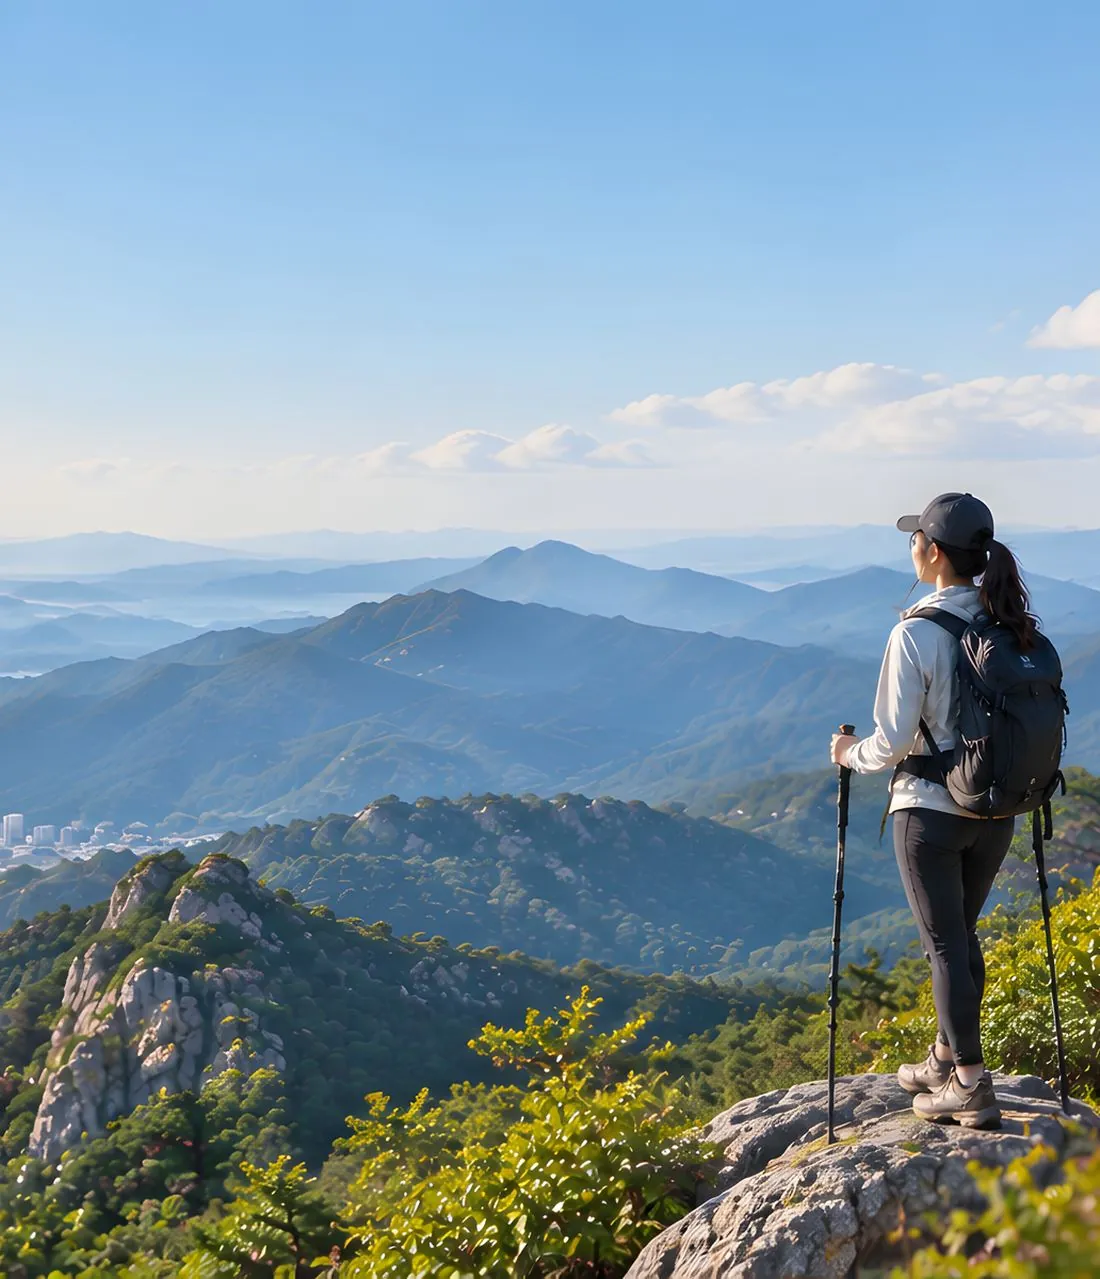
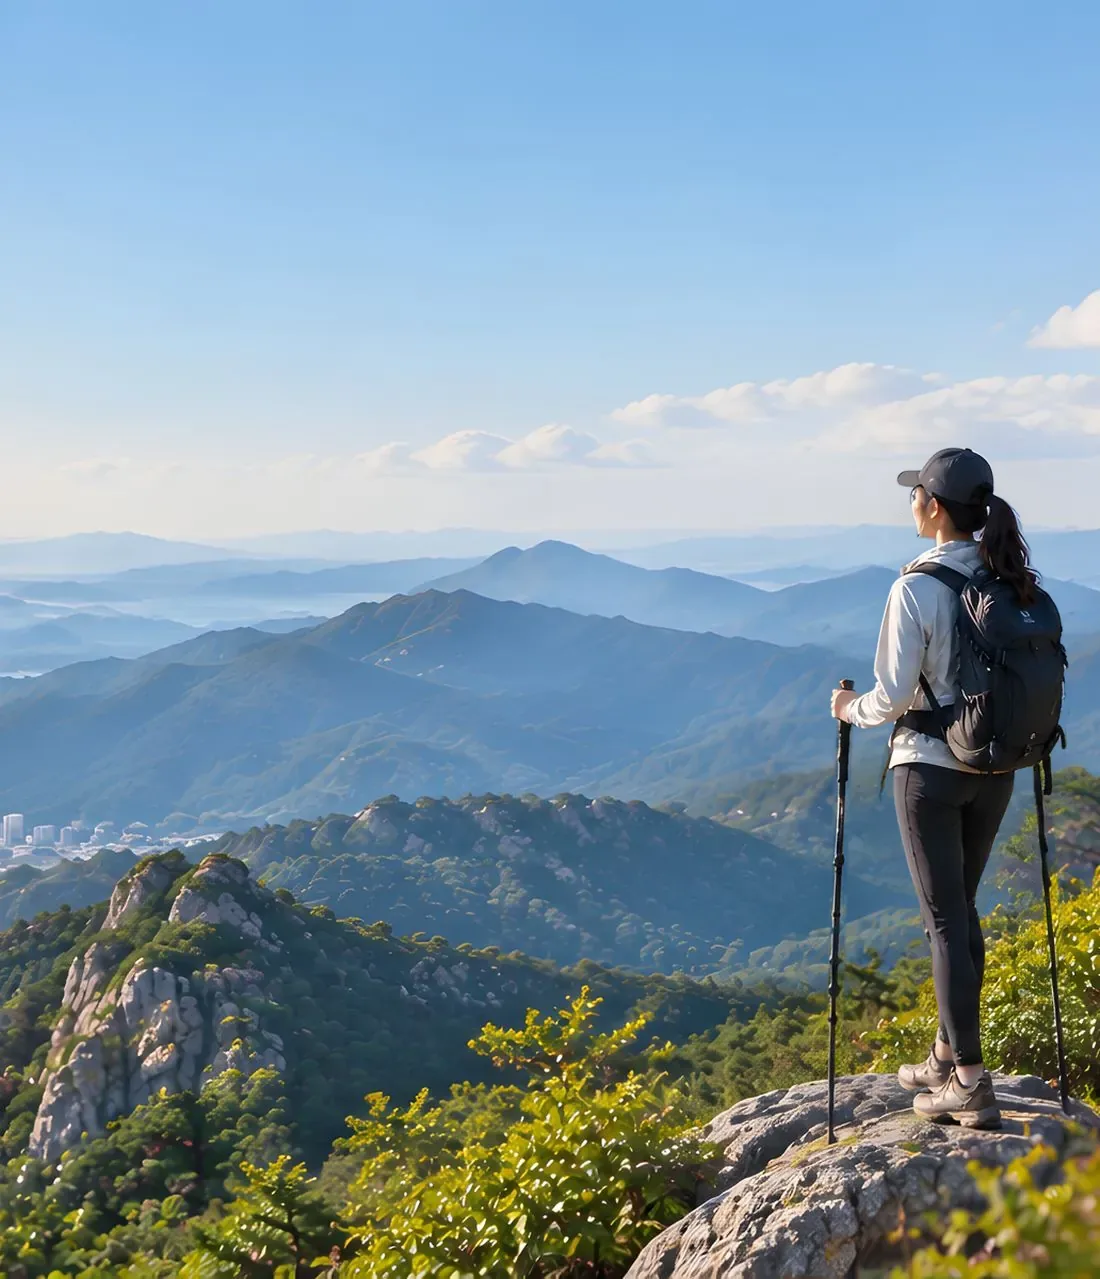
히어로 원본 인물 다리 비율 보정 및 PC 맨 위로 버튼 추가
- 원본 사진 내에서 허벅지~정강이 구간만 세로 확장(발 접점 고정, 스틱·허리끈 포함), 빈 배경은 LaMa로 복원
- PC(721px 이상)에서 스크롤 시 우하단 맨 위로 버튼 표시

Claude-Session: https://claude.ai/code/session_01TTPn3ts8fEyWREDupZmwxM

Changed region(s): [[0.7418, 0.3354, 0.9891, 0.9148], [0.9582, 0.8538, 0.9891, 0.8843]]

diff --git a/_src.html b/_src.html
@@ -292,6 +292,16 @@ footer{background:var(--dark);color:rgba(255,255,255,.5);border-top:1px solid rg
   .end .in{padding-block:clamp(72px,16vw,112px);}
   .end p{margin-top:18px;}
 }
+/* ── 맨 위로 버튼 (PC 전용) ── */
+.totop{display:none;}
+@media (min-width:721px){
+  .totop{position:fixed;right:28px;bottom:28px;z-index:60;display:flex;align-items:center;justify-content:center;
+    width:48px;height:48px;border-radius:50%;background:rgba(255,255,255,.94);color:var(--green-deep);
+    border:1px solid var(--line2);box-shadow:0 6px 20px rgba(20,24,27,.12);
+    opacity:0;visibility:hidden;transform:translateY(8px);transition:opacity .25s ease,transform .25s ease,visibility .25s,background .2s,color .2s;}
+  .totop.show{opacity:1;visibility:visible;transform:none;}
+  .totop:hover{background:var(--green);color:#fff;border-color:var(--green);}
+}
 @media (prefers-reduced-motion:reduce){
   *,*::before,*::after{animation:none !important;transition:none !important;}
   .hero h1 span > i,.hero .sub,.hero .status,.reveal.pre{transform:none;opacity:1;}
@@ -517,15 +527,18 @@ s.srcset="/img/hero/"+k+"-m.webp";i.src="/img/hero/"+k+".webp";})();</script>
     <span class="cp">© 2026 혼산노트</span>
   </div>
 </footer>
+<a class="totop" id="totop" href="#top" aria-label="맨 위로 이동"><svg viewBox="0 0 24 24" width="20" height="20" aria-hidden="true"><path d="M12 19V5M5 12l7-7 7 7" fill="none" stroke="currentColor" stroke-width="2.2" stroke-linecap="round" stroke-linejoin="round"/></svg></a>
 
 <script>
 (function(){
   "use strict";
   var reduce = window.matchMedia && window.matchMedia('(prefers-reduced-motion: reduce)').matches;
   var nav=document.getElementById('nav'), hbg=document.getElementById('bgwrap'), ticking=false;
+  var totop=document.getElementById('totop');
   function frame(){
     ticking=false; var y=window.scrollY||0;
     if(nav) nav.classList.toggle('solid', y>40);
+    if(totop) totop.classList.toggle('show', y>window.innerHeight*0.8);
     if(hbg && !reduce) hbg.style.transform=window.innerWidth>640?'translate3d(0,'+Math.min(y*0.16,90)+'px,0)':'';
   }
   function onScroll(){ if(!ticking){ ticking=true; requestAnimationFrame(frame); } }

diff --git a/index.html b/index.html
@@ -292,6 +292,16 @@ footer{background:var(--dark);color:rgba(255,255,255,.5);border-top:1px solid rg
   .end .in{padding-block:clamp(72px,16vw,112px);}
   .end p{margin-top:18px;}
 }
+/* ── 맨 위로 버튼 (PC 전용) ── */
+.totop{display:none;}
+@media (min-width:721px){
+  .totop{position:fixed;right:28px;bottom:28px;z-index:60;display:flex;align-items:center;justify-content:center;
+    width:48px;height:48px;border-radius:50%;background:rgba(255,255,255,.94);color:var(--green-deep);
+    border:1px solid var(--line2);box-shadow:0 6px 20px rgba(20,24,27,.12);
+    opacity:0;visibility:hidden;transform:translateY(8px);transition:opacity .25s ease,transform .25s ease,visibility .25s,background .2s,color .2s;}
+  .totop.show{opacity:1;visibility:visible;transform:none;}
+  .totop:hover{background:var(--green);color:#fff;border-color:var(--green);}
+}
 @media (prefers-reduced-motion:reduce){
   *,*::before,*::after{animation:none !important;transition:none !important;}
   .hero h1 span > i,.hero .sub,.hero .status,.reveal.pre{transform:none;opacity:1;}
@@ -517,15 +527,18 @@ s.srcset="/img/hero/"+k+"-m.webp";i.src="/img/hero/"+k+".webp";})();</script>
     <span class="cp">© 2026 혼산노트</span>
   </div>
 </footer>
+<a class="totop" id="totop" href="#top" aria-label="맨 위로 이동"><svg viewBox="0 0 24 24" width="20" height="20" aria-hidden="true"><path d="M12 19V5M5 12l7-7 7 7" fill="none" stroke="currentColor" stroke-width="2.2" stroke-linecap="round" stroke-linejoin="round"/></svg></a>
 
 <script>
 (function(){
   "use strict";
   var reduce = window.matchMedia && window.matchMedia('(prefers-reduced-motion: reduce)').matches;
   var nav=document.getElementById('nav'), hbg=document.getElementById('bgwrap'), ticking=false;
+  var totop=document.getElementById('totop');
   function frame(){
     ticking=false; var y=window.scrollY||0;
     if(nav) nav.classList.toggle('solid', y>40);
+    if(totop) totop.classList.toggle('show', y>window.innerHeight*0.8);
     if(hbg && !reduce) hbg.style.transform=window.innerWidth>640?'translate3d(0,'+Math.min(y*0.16,90)+'px,0)':'';
   }
   function onScroll(){ if(!ticking){ ticking=true; requestAnimationFrame(frame); } }
